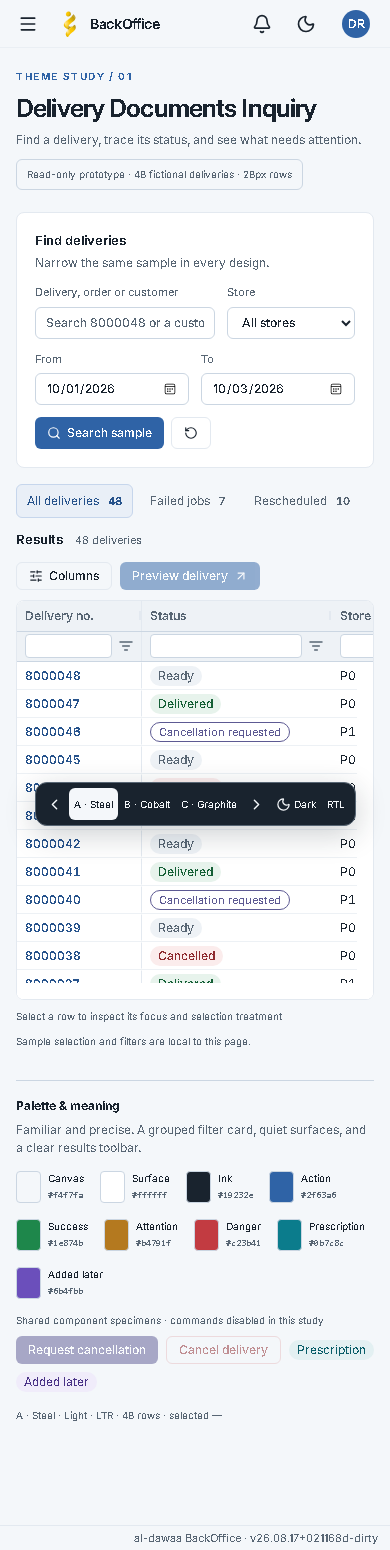
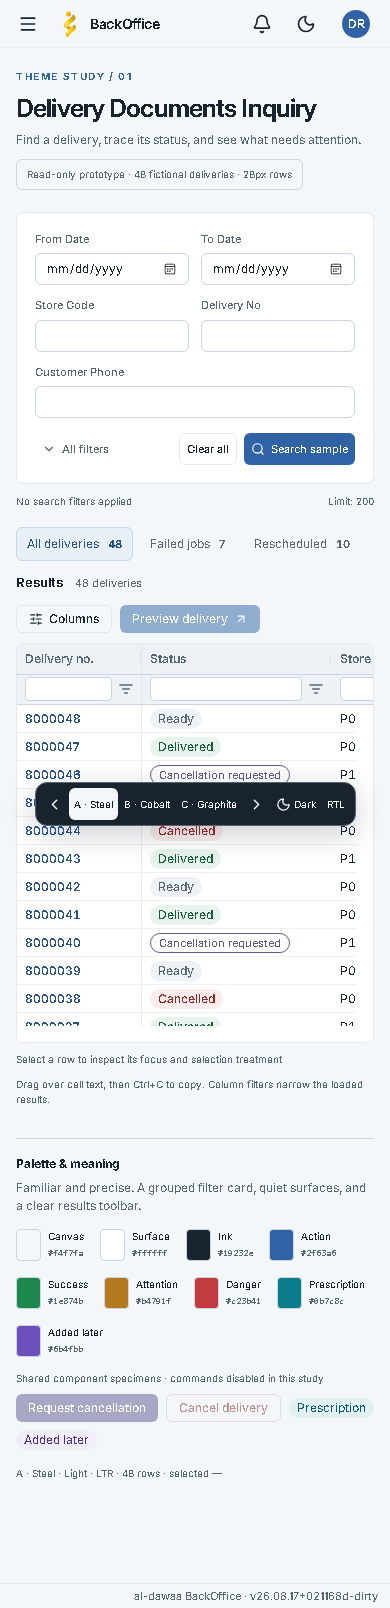
prototype: retain full inquiry filters and enable cell text copying

diff --git a/src/features/oms/deliveries/__prototype__/ThemePrototypePage.tsx b/src/features/oms/deliveries/__prototype__/ThemePrototypePage.tsx
@@ -5,7 +5,7 @@ import { useSearchParams } from 'react-router'
 import { useTranslation } from 'react-i18next'
 import { AgGridReact } from 'ag-grid-react'
 import type { ColDef, GridApi } from 'ag-grid-community'
-import { Search, RotateCcw, SlidersHorizontal, ArrowUpRight, Sun, Moon } from 'lucide-react'
+import { SlidersHorizontal, ArrowUpRight, Sun, Moon } from 'lucide-react'
 import '@/core/ag-grid-setup'
 import i18n from '@/core/i18n'
 import Button from '@/core/ui/Button'
@@ -13,12 +13,14 @@ import StatusBadge from '@/core/ui/StatusBadge'
 import PrototypeSwitcher from '@/core/ui/ThemePrototypeSwitcher'
 import { omsGridTheme } from '@/core/theme/ag-grid-theme'
 import copy from './copy.json'
+import ThemePrototypeFilters from './ThemePrototypeFilters'
+import { BLANK_CRITERIA, buildDeliveryQuery, type DeliveryFilterCriteria } from '../filter'
 import './theme-prototype.css'
 
 i18n.addResourceBundle('en', 'theme-prototype', copy, true, true)
 const keys = ['A', 'B', 'C'] as const
 type Variant = typeof keys[number]
-type Row = { deliveryNo: string; orderNo: string; customer: string; store: string; date: string; status: string; slot: string; total: number; due: number; source: string; city: string; jobs: number; note: string; rescheduled: boolean }
+type Row = { deliveryNo: string; orderNo: string; customer: string; store: string; date: string; status: string; slot: string; total: number; due: number; source: string; city: string; jobs: number; note: string; rescheduled: boolean; documentNo: string; customerPhone: string; documentType: string; deliveryDocumentType: string; deliveryType: string; documentReason: string; isExpress: boolean }
 // Invented display data; no customer data or API mutations.
 const rows: Row[] = Array.from({ length: 48 }, (_, i) => ({
   deliveryNo: String(8000048 - i), orderNo: String(1000080421 - i),
@@ -28,6 +30,10 @@ const rows: Row[] = Array.from({ length: 48 }, (_, i) => ({
   slot: ['10:00–12:00', '12:00–14:00', '16:00–18:00'][i % 3],
   total: Math.round((92.5 + i * 17.35) * 100) / 100, due: i % 4 === 0 ? 72.5 : 0,
   source: ['Call center', 'Web', 'Store'][i % 3], city: ['Riyadh', 'Dammam', 'Khobar'][i % 3],
+  documentNo: String(2000080421 - i), customerPhone: `050000${String(i + 1).padStart(4, '0')}`,
+  documentType: ['Call Center', 'Web Order', 'Store Order'][i % 3],
+  deliveryDocumentType: i % 8 === 0 ? 'Return Delivery' : 'Standard Delivery',
+  deliveryType: i % 4 === 0 ? 'PickInStore' : 'Delivery', documentReason: i % 5 === 0 ? 'TMRA' : 'STANDARD', isExpress: i % 3 === 0,
   jobs: i % 7 === 0 ? 2 : 0, rescheduled: i % 5 === 0, note: i % 5 === 0 ? 'Customer requested an afternoon slot' : '',
 }))
 const palette = ['background', 'card', 'foreground', 'primary', 'success', 'attention', 'danger', 'prescription', 'post']
@@ -39,12 +45,8 @@ export default function ThemePrototypePage() {
   const variant = keys.includes(params.get('variant') as Variant) ? params.get('variant') as Variant : 'A'
   const dark = params.get('mode') === 'dark'
   const rtl = params.get('dir') === 'rtl'
-  const [query, setQuery] = useState('')
-  const [store, setStore] = useState('')
-  const [from, setFrom] = useState('2026-10-01')
-  const [to, setTo] = useState('2026-10-03')
   const [scope, setScope] = useState('all')
-  const [applied, setApplied] = useState({ query: '', store: '', from, to })
+  const [applied, setApplied] = useState<DeliveryFilterCriteria>(BLANK_CRITERIA)
   const [selected, setSelected] = useState<Row | null>(null)
   const [api, setApi] = useState<GridApi<Row> | null>(null)
   const [chooser, setChooser] = useState(false)
@@ -77,10 +79,23 @@ export default function ThemePrototypePage() {
       root.dir = previous.dir
     }
   }, [variant, dark, rtl])
-  const data = useMemo(() => rows.filter(row => (!applied.store || row.store === applied.store)
-    && (!applied.from || row.date >= applied.from) && (!applied.to || row.date <= applied.to)
-    && `${row.deliveryNo} ${row.orderNo} ${row.customer}`.toLowerCase().includes(applied.query.toLowerCase())
-    && (scope === 'all' || (scope === 'failed' ? row.jobs > 0 : row.rescheduled))), [applied, scope])
+  const data = useMemo(() => {
+    const query = buildDeliveryQuery(applied)
+    const matches = (value: string, criterion: unknown) => !criterion || value.toLowerCase().includes(String(criterion).toLowerCase())
+    // Local fixture matching only; production matching remains server-owned.
+    return rows.filter(row => (!query.FromDate || row.date >= String(query.FromDate))
+      && (!query.ToDate || row.date <= String(query.ToDate))
+      && matches(row.store, query.StoreCode) && matches(row.deliveryNo, query.DeliveryNo)
+      && matches(row.documentNo, query.DocumentNo) && matches(row.orderNo, query.OrderNo)
+      && matches(row.customerPhone, query.CustomerPhone) && matches(row.documentReason, query.DocumentReason)
+      && (!query.DocumentType || row.documentType === query.DocumentType)
+      && (!query.DocumentSource || row.source === query.DocumentSource)
+      && (!query.DeliveryDocumentType || row.deliveryDocumentType === query.DeliveryDocumentType)
+      && (!query.DeliveryType || row.deliveryType === query.DeliveryType)
+      && (query.IsExpress === undefined || row.isExpress === query.IsExpress)
+      && (scope === 'all' || (scope === 'failed' ? row.jobs > 0 : row.rescheduled)))
+      .slice(0, Number(query.Limit))
+  }, [applied, scope])
   useEffect(() => { api?.deselectAll(); setSelected(null) }, [data, api])
   const columns = useMemo<ColDef<Row>[]>(() => [
     { field: 'deliveryNo', width: 125, pinned: rtl ? 'right' : 'left', lockPinned: true, cellClass: 'prototype-identity' },
@@ -94,28 +109,19 @@ export default function ThemePrototypePage() {
     { field: 'jobs', width: 115, cellRenderer: ({ value }: { value: number }) => value ? <StatusBadge sev="bad">{value}</StatusBadge> : '—' },
     { field: 'source', width: 130 }, { field: 'city', width: 130 }, { field: 'note', width: 310 },
   ].map(col => ({ ...col, headerName: t(col.field!), hide: hidden.includes(col.field!) })) as ColDef<Row>[], [t, rtl, hidden])
-  const reset = () => {
-    setQuery(''); setStore(''); setFrom('2026-10-01'); setTo('2026-10-03'); setScope('all')
-    setApplied({ query: '', store: '', from: '2026-10-01', to: '2026-10-03' }); api?.setFilterModel(null)
-  }
-  const filters = <form className="prototype-filters" onSubmit={event => { event.preventDefault(); setApplied({ query, store, from, to }); setSelected(null) }}>
-    <div className="prototype-filter-intro"><h2>{t('filterTitle')}</h2><p>{t('filterHint')}</p></div>
-    <label className="prototype-query">{t('lookup')}<input value={query} onChange={e => setQuery(e.target.value)} placeholder={t('placeholder')} /></label>
-    <label>{t('store')}<select value={store} onChange={e => setStore(e.target.value)}><option value="">{t('allStores')}</option>{['P019', 'P042', 'P107'].map(s => <option key={s}>{s}</option>)}</select></label>
-    <label>{t('from')}<input type="date" value={from} onChange={e => setFrom(e.target.value)} /></label>
-    <label>{t('to')}<input type="date" value={to} min={from} onChange={e => setTo(e.target.value)} /></label>
-    <div className="prototype-filter-actions"><Button type="submit"><Search size={14} />{t('search')}</Button><Button variant="outlined" onClick={reset} aria-label={t('reset')}><RotateCcw size={14} /></Button></div>
-  </form>
+  const reset = () => { setApplied(BLANK_CRITERIA); setScope('all'); api?.setFilterModel(null) }
+  const filters = <ThemePrototypeFilters applied={applied} onApply={setApplied} onReset={reset} />
   const scopes = <div className="prototype-scopes">{['all', 'failed', 'rescheduled'].map(key => <button key={key} aria-pressed={scope === key} onClick={() => { setScope(key); setSelected(null) }}><span>{t(key)}</span><strong>{rows.filter(r => key === 'all' || (key === 'failed' ? r.jobs > 0 : r.rescheduled)).length}</strong></button>)}</div>
   const grid = <section className="prototype-results">
     <div className="prototype-results-toolbar"><h2>{t('results')} <span>{t('count', { count: data.length })}</span></h2><div className="flex items-center gap-2"><Button variant="outlined" onClick={() => setChooser(!chooser)} aria-expanded={chooser}><SlidersHorizontal size={14} />{t('columns')}</Button><Button disabled={!selected} onClick={() => setPreview(true)}>{t('open')}<ArrowUpRight size={14} /></Button></div></div>
     {chooser && <div className="prototype-column-chooser">{columns.filter(c => c.field !== 'deliveryNo').map(col => <label key={col.field}><input type="checkbox" checked={!hidden.includes(col.field!)} onChange={e => setHidden(old => e.target.checked ? old.filter(key => key !== col.field) : [...old, col.field!])} />{col.headerName}</label>)}</div>}
     <div className="prototype-grid"><AgGridReact<Row> key={String(rtl)} theme={gridTheme} enableRtl={rtl} rowData={data} columnDefs={columns}
+      enableCellTextSelection ensureDomOrder
       defaultColDef={{ sortable: true, resizable: true, filter: true, floatingFilter: true }} rowHeight={28} headerHeight={30} floatingFiltersHeight={30}
       rowSelection={{ mode: 'singleRow', checkboxes: false, enableClickSelection: true }} getRowId={p => p.data.deliveryNo}
       onGridReady={e => setApi(e.api)} onSelectionChanged={e => setSelected(e.api.getSelectedRows()[0] ?? null)}
       overlayNoRowsTemplate={`<span>${t('empty')}</span>`} /></div>
-    <div className="prototype-grid-footer"><span>{selected ? t('selected', { id: selected.deliveryNo }) : t('none')}</span><span>{t('scope')}</span></div>
+    <div className="prototype-grid-footer"><span>{selected ? t('selected', { id: selected.deliveryNo }) : t('none')}</span><span>{t('copyHint')} {t('scope')}</span></div>
   </section>
   return <div className={`theme-prototype prototype-${variant}`}>
     <div className="prototype-heading"><div><div className="prototype-eyebrow">{t('review')}</div><h1>{t('title')}</h1><p>{t('subtitle')}</p></div><span className="prototype-fixture">{t('fixture')}</span></div>

diff --git a/src/features/oms/deliveries/__prototype__/ThemePrototypeFilters.tsx b/src/features/oms/deliveries/__prototype__/ThemePrototypeFilters.tsx
@@ -1,0 +1,96 @@
+// Throwaway filter composition: all 14 production criteria, unchanged request meanings.
+import { useState } from 'react'
+import { useTranslation } from 'react-i18next'
+import { ChevronDown, ChevronUp, Search, X } from 'lucide-react'
+import Button from '@/core/ui/Button'
+import { fromIsoDate, toIsoDate } from '@/core/util/date-format'
+import { BLANK_CRITERIA, buildDeliveryQuery, DEFAULT_LIMIT, type DeliveryFilterCriteria } from '../filter'
+
+type Field = keyof DeliveryFilterCriteria
+// Fixture lookup descriptions, not a replacement for production lookup endpoints.
+const choices: Partial<Record<Field, string[]>> = {
+  documentType: ['Call Center', 'Web Order', 'Store Order'],
+  documentSource: ['Call center', 'Web', 'Store'],
+  deliveryDocumentType: ['Standard Delivery', 'Return Delivery'],
+  deliveryType: ['Delivery', 'PickInStore'],
+}
+const common: Field[] = ['fromDate', 'toDate', 'storeCode', 'deliveryNo', 'customerPhone']
+const groups: { name: string; fields: Field[] }[] = [
+  { name: 'identityGroup', fields: ['documentNo', 'orderNo'] },
+  { name: 'classificationGroup', fields: ['documentType', 'documentSource', 'deliveryDocumentType', 'documentReason'] },
+  { name: 'fulfilmentGroup', fields: ['deliveryType', 'isExpress'] },
+  { name: 'resultsGroup', fields: ['limit'] },
+]
+
+export default function ThemePrototypeFilters({ applied, onApply, onReset }: {
+  applied: DeliveryFilterCriteria; onApply: (criteria: DeliveryFilterCriteria) => void; onReset: () => void
+}) {
+  const { t } = useTranslation('theme-prototype')
+  const [draft, setDraft] = useState(applied)
+  const [expanded, setExpanded] = useState(false)
+  const label = (key: Field) => t(`deliveries:filters.${key === 'isExpress' ? 'dawaaNow' : key}`)
+  const set = (key: Field, value: DeliveryFilterCriteria[Field]) => setDraft(old => ({ ...old, [key]: value }))
+  const dirty = JSON.stringify(draft) !== JSON.stringify(applied)
+  const active = (Object.keys(applied) as Field[]).filter(key => key === 'fromDate'
+    ? applied.fromDate && applied.toDate
+    : key !== 'toDate' && key !== 'limit' && applied[key] !== null && applied[key] !== '')
+  const extraCount = active.filter(key => !common.includes(key)).length
+  const valueText = (key: Field) => key === 'fromDate'
+    ? `${toIsoDate(applied.fromDate!)} — ${toIsoDate(applied.toDate!)}`
+    : key === 'isExpress' ? t(applied.isExpress ? 'common:yes' : 'common:no') : String(applied[key])
+  const remove = (key: Field) => {
+    const patch = key === 'fromDate' ? { fromDate: null, toDate: null } : { [key]: null }
+    setDraft(old => ({ ...old, ...patch }))
+    onApply({ ...applied, ...patch })
+  }
+  const field = (key: Field) => <div key={key} className="prototype-filter-field">
+    <label htmlFor={`prototype-${key}`}>{label(key)}</label>
+    {key === 'fromDate' || key === 'toDate'
+      ? <input id={`prototype-${key}`} type="date" value={draft[key] ? toIsoDate(draft[key]) : ''} onChange={e => set(key, fromIsoDate(e.target.value))} />
+      : key === 'isExpress'
+        ? <select id={`prototype-${key}`} value={draft.isExpress === null ? '' : String(draft.isExpress)} onChange={e => set(key, e.target.value === '' ? null : e.target.value === 'true')}>
+          <option value="">{t('deliveries:filters.any')}</option><option value="true">{t('common:yes')}</option><option value="false">{t('common:no')}</option>
+        </select>
+        : choices[key]
+          ? <select id={`prototype-${key}`} value={String(draft[key] ?? '')} onChange={e => set(key, e.target.value || null)}>
+            <option value="">{t('deliveries:filters.any')}</option>{choices[key]!.map(value => <option key={value}>{value}</option>)}
+          </select>
+          : <input id={`prototype-${key}`} type={key === 'limit' ? 'number' : key === 'customerPhone' ? 'tel' : 'text'}
+            min={key === 'limit' ? 1 : undefined} max={key === 'limit' ? 20000 : undefined}
+            autoComplete="off" value={String(draft[key] ?? '')}
+            onChange={e => set(key, e.target.value === '' ? null : key === 'limit' ? Number(e.target.value) : e.target.value)} />}
+  </div>
+  return <div className="prototype-filter-system">
+    <form className="prototype-filters" aria-label={t('deliveries:filters.ariaLabel')} onSubmit={e => {
+      e.preventDefault()
+      // Keep production normalization (paired dates, trimmed text, default limit).
+      const query = buildDeliveryQuery(draft)
+      onApply({ ...draft, limit: Number(query.Limit) })
+    }}>
+      <div className="prototype-common-filters">{common.map(field)}</div>
+      <div id="prototype-all-filters" className="prototype-expanded-filters" hidden={!expanded}>
+        {groups.map(group => <fieldset key={group.name} className={`prototype-filter-group ${group.name}`}>
+          <legend>{t(group.name)}</legend><div>{group.fields.map(field)}</div>
+        </fieldset>)}
+      </div>
+      <div className="prototype-filter-footer">
+        <Button variant="text" aria-expanded={expanded} aria-controls="prototype-all-filters" onClick={() => setExpanded(!expanded)}>
+          {expanded ? <ChevronUp size={14} /> : <ChevronDown size={14} />}{t(expanded ? 'fewerFilters' : 'allFilters')}
+          {extraCount > 0 && <span className="prototype-filter-count">{t('appliedExtra', { count: extraCount })}</span>}
+        </Button>
+        <span className="prototype-draft-state" role="status">{dirty ? t('unapplied') : t('filterCount')}</span>
+        <div className="prototype-filter-actions">
+          <Button variant="outlined" onClick={() => { setDraft(BLANK_CRITERIA); onReset() }}>{t('clearAll')}</Button>
+          <Button type="submit"><Search size={14} />{t('search')}</Button>
+        </div>
+      </div>
+      {(draft.fromDate === null) !== (draft.toDate === null) && <p className="prototype-date-hint">{t('pairedDates')}</p>}
+    </form>
+    <div className="prototype-active-filters" aria-label={t('activeFilters')}>
+      {active.length > 0 ? <><span>{t('activeFilters')}</span>{active.map(key => <button key={key} onClick={() => remove(key)} aria-label={t('removeFilter', { label: label(key) })}>
+        <span>{label(key)}: <bdi>{valueText(key)}</bdi></span><X size={12} />
+      </button>)}</> : <span>{t('noFilters')}</span>}
+      <span className="prototype-limit-summary">{t('appliedLimit', { count: applied.limit || DEFAULT_LIMIT })}</span>
+    </div>
+  </div>
+}

diff --git a/src/features/oms/deliveries/__prototype__/theme-prototype.css b/src/features/oms/deliveries/__prototype__/theme-prototype.css
@@ -71,3 +71,54 @@
 @media (max-width: 1100px) { .prototype-heading { align-items: start; flex-direction: column; gap: 10px; } .prototype-grid-footer { flex-wrap: wrap; } }
 @media (max-width: 850px) { .prototype-workspace { grid-template-columns: minmax(0, 1fr); } .prototype-workspace > aside { border: 0; padding: 0; } .prototype-B .prototype-filters label { width: auto; } .prototype-aside-note { display: none; } .prototype-results-toolbar { flex-wrap: wrap; } .prototype-C .prototype-scopes { gap: 15px; } .prototype-C .prototype-scopes strong { font-size: 20px; } }
 @media (max-width: 520px) { .prototype-fixture { white-space: normal; } .prototype-switcher { gap: 1px; padding: 5px; } .prototype-switcher button { font-size: 10px; padding-inline: 5px; gap: 3px; } .prototype-components { gap: 8px; } .prototype-filters label { flex: 1; } }
+
+/* Full-filter review: preserve every criterion, spend space on grouping and hierarchy. */
+.prototype-filter-system { min-width: 0; }
+.prototype-filter-field { display: flex; flex-direction: column; gap: 6px; min-width: 0; }
+.prototype-filters { display: block; }
+.prototype-common-filters { display: grid; grid-template-columns: repeat(5, minmax(0, 1fr)); gap: 12px; }
+.prototype-filters input, .prototype-filters select { width: 100%; min-width: 0; }
+.prototype-expanded-filters { display: grid; grid-template-columns: 1.1fr 2fr 1.1fr .7fr; gap: 20px; margin-block-start: 20px; padding-block-start: 17px; border-block-start: 1px solid var(--border); }
+.prototype-expanded-filters[hidden] { display: none; }
+.prototype-filter-group { min-width: 0; }
+.prototype-filter-group legend { font-size: 10px; font-weight: 650; letter-spacing: .04em; margin-block-end: 12px; color: var(--foreground); }
+.prototype-filter-group > div { display: grid; gap: 12px; }
+.prototype-filter-group.classificationGroup > div { grid-template-columns: repeat(2, minmax(0, 1fr)); }
+.prototype-filter-footer { display: flex; align-items: center; gap: 12px; margin-block-start: 15px; }
+.prototype-filter-footer > button { padding-inline-start: 0; }
+.prototype-filter-actions { margin-inline-start: auto; flex-shrink: 0; }
+.prototype-filter-count { background: var(--primary-050); color: var(--primary-800); padding: 2px 5px; border-radius: 4px; font-size: 10px; }
+.prototype-draft-state, .prototype-date-hint { font-size: 10px; color: var(--muted-foreground); }
+.prototype-date-hint { margin-block-start: 10px; }
+.prototype-active-filters { display: flex; align-items: center; flex-wrap: wrap; gap: 7px; padding-block: 10px 2px; font-size: 10px; color: var(--muted-foreground); }
+.prototype-active-filters button { display: inline-flex; align-items: center; gap: 7px; border: 1px solid var(--primary-border); background: var(--primary-050); color: var(--primary-800); padding: 4px 7px; max-width: 100%; }
+.prototype-active-filters button span { overflow-wrap: anywhere; }
+.prototype-limit-summary { margin-inline-start: auto; white-space: nowrap; }
+.prototype-workspace { grid-template-columns: 260px minmax(0, 1fr); }
+.prototype-B .prototype-common-filters, .prototype-B .prototype-expanded-filters, .prototype-B .prototype-filter-group.classificationGroup > div { grid-template-columns: minmax(0, 1fr); }
+.prototype-B .prototype-filters { max-block-size: 660px; overflow-y: auto; padding-inline-end: 6px; }
+.prototype-B .prototype-filter-footer { flex-wrap: wrap; position: sticky; inset-block-end: 0; background: var(--background); padding-block: 8px; }
+.prototype-B .prototype-draft-state { width: 100%; }
+.prototype-B .prototype-filter-actions { margin-inline-start: 0; }
+.prototype-C .prototype-filters { padding-block-end: 8px; }
+.prototype-C .prototype-active-filters { margin-block-end: 14px; }
+@media (max-width: 1100px) {
+  .prototype-common-filters { grid-template-columns: repeat(3, minmax(0, 1fr)); }
+  .prototype-expanded-filters { grid-template-columns: repeat(2, minmax(0, 1fr)); }
+}
+@media (max-width: 850px) {
+  .prototype-workspace { grid-template-columns: minmax(0, 1fr); }
+  .prototype-B .prototype-common-filters, .prototype-B .prototype-expanded-filters { grid-template-columns: repeat(2, minmax(0, 1fr)); }
+  .prototype-B .prototype-filters { max-block-size: none; overflow: visible; padding: 0; }
+  .prototype-B .prototype-filter-footer { position: static; }
+  .prototype-B .prototype-filter-actions { margin-inline-start: auto; }
+  .prototype-filter-footer { flex-wrap: wrap; }
+  .prototype-draft-state { display: none; }
+}
+@media (max-width: 520px) {
+  .prototype-common-filters, .prototype-expanded-filters { grid-template-columns: repeat(2, minmax(0, 1fr)); }
+  .prototype-filter-group.classificationGroup > div { grid-template-columns: minmax(0, 1fr); }
+  .prototype-filter-footer { gap: 8px; }
+  .prototype-filter-footer button { padding-inline: 7px; font-size: 11px; }
+  .prototype-common-filters .prototype-filter-field:last-child { grid-column: 1 / -1; }
+}

diff --git a/.issues/assets/355-theme-review/README.md b/.issues/assets/355-theme-review/README.md
@@ -30,7 +30,21 @@ The dedicated Vite configuration intercepts every `/api/` request, including wri
 
 Choose a palette and a composition independently, or choose one direction whole. The agent's recommendation is **C's compact composition with A's steel palette**: it preserves the familiar palette and gives the data more vertical space. This is a recommendation, not the owner's answer.
 
-B reserves 210px for filters, making repeated searches easier to reach but reducing horizontal grid space. At a narrow viewport its filters move above the grid. C removes the filter card and lets status colours stand out against quieter neutral surfaces. A changes the least from the current application.
+B reserves 260px for filters, making repeated searches easier to reach but reducing horizontal grid space. At a narrow viewport its filters move above the grid. C removes the filter card and lets status colours stand out against quieter neutral surfaces. A changes the least from the current application.
+
+## Full-filter and text-copy refinement
+
+Following owner feedback, the prototype now includes all 14 production filter fields. The current proposal keeps From Date, To Date, Store Code, Delivery No and Customer Phone visible; **All filters** expands the remaining nine, grouped by document identity, classification, fulfilment and results. The owner has not yet confirmed whether this panel should start expanded.
+
+Search applies the draft criteria as a batch. Applied criteria remain visible as removable chips even when the panel is collapsed. The result limit is always stated. Column filters act on the loaded sample, separately from the search criteria. All matching happens against fictional rows, with the real query builder used to retain request-shaping semantics. The former combined customer/number search has been replaced by the distinct production fields.
+
+- All fields expanded: [Steel](A-all-filters.png), [Cobalt](B-all-filters.png), [Graphite](C-all-filters.png).
+- [Applied-filter chips with the panel collapsed](C-active-filter-chips.png).
+- All fields at 390px: [Steel](A-mobile-all-filters.png), [Cobalt](B-mobile-all-filters.png), [Graphite](C-mobile-all-filters.png).
+
+Native cell-text selection is enabled using `enableCellTextSelection` and `ensureDomOrder`. Select text with a drag or double-click a word, then press Ctrl+C. Row selection remains available; copying selected text does not require an Enterprise licence. This is not a proposal for Excel-style range selection.
+
+Sources checked on 2026-10-02: [AG Grid cell text selection](https://www.ag-grid.com/react-data-grid/cell-text-selection/) documents both settings and the resulting selected-text clipboard behaviour; the installed Community 36.0.1 types contain both. [IBM Carbon filtering](https://www.carbondesignsystem.com/building-blocks/core/patterns/filtering) supports batch application for multiple criteria and visible indicators/reset for hidden active filters. The specific five-field ordering and expandable grouping are this prototype's proposal, not a claim that those sources prescribe this screen.
 
 The columns and combined status are illustrative fixtures, not a proposed replacement for the production list's 41-column contract or its multiple domain status fields. The fuller shared-state and component review belongs to the dependent visual ticket. This study does not establish loading/error/empty-state styling across the app or settle rich-row density.
 
@@ -38,7 +52,7 @@ The columns and combined status are illustrative fixtures, not a proposed replac
 
 - `npm run build` (includes TypeScript): passed; the existing large-chunk warning remains.
 - `npm run lint`: passed, including the existing 129-pair contrast gate.
-- `node tools/theme-prototype-drive.mjs`: 38 browser checks passed; [results](verification.json).
+- `node tools/theme-prototype-drive.mjs`: see the latest [browser results](verification.json), including native selection/Ctrl+C, all 14 controls, combined filtering, chip removal, and expanded layouts at 390px.
 - Browser checks cover all six desktop variants, 28px rows, horizontal overflow within the grid, row selection, four key text/action contrast pairs per view, sample filters, column visibility, keyboard ownership, detail preview, switcher/reload, RTL pinning, shell mode synchronization, no persisted theme setting, and all three layouts at 390px.
 - Captures were visually inspected. No browser errors. React Router's hydration-fallback warning and the shell's duplicate-query warning are recorded in the results; neither is introduced as a design decision.
 - The driver follows the repo's existing Playwright arrangement in `C:/Playground/frontend` and uses installed Edge. It is a manual review tool, not a new test-suite dependency.

diff --git a/.issues/355-choose-the-app-theme-through-three-visual-directions.md b/.issues/355-choose-the-app-theme-through-three-visual-directions.md
@@ -36,3 +36,17 @@ Claimed for this session. Built the three visual directions on the existing inqu
 - Agent recommendation, awaiting the owner's reaction: Graphite's compact composition with Steel's palette.
 
 **No resolution yet.** The owner has been asked which direction or combination to retain. This ticket remains claimed, and its dependent tickets remain blocked. No production design decision or map resolution is implied by this prototype.
+
+### 2026-10-02 — Owner feedback: copying and the complete filter set
+
+The owner dislikes being unable to select/copy cell text and requires every production filter to remain available. The initial simplified filter set did not represent the real inquiry well enough for a decision.
+
+Prototype refined on the same branch:
+
+- Enabled AG Grid Community native cell text selection and DOM ordering. Browser verification includes selecting a delivery number and copying it with Ctrl+C. This is ordinary selected-text copying, not an Enterprise cell-range clipboard feature.
+- Restored all 14 production criteria, retaining `DeliveryFilterCriteria` and `buildDeliveryQuery` semantics, including paired dates, description-valued selects, default limit, and tri-state Dawaa Now. Fixture matching is local and illustrative, not a new server matching contract.
+- Proposed five first-row fields (From Date, To Date, Store Code, Delivery No, Customer Phone), plus a grouped expandable section for Document No, Order No, Document Type, Document Source, Delivery Document Type, Reason, Delivery Type, Dawaa Now, and Limit.
+- Applied criteria remain visible as removable chips; draft changes are identified until Search; Clear all clears search criteria and grid column filters. The result limit remains visible when collapsed.
+- Asked whether all 14 must be visible by default or available through expansion. No answer or theme selection inferred. Grouping and default expansion remain proposals for review.
+
+[Updated captures and guidance sources](assets/355-theme-review/README.md). This is further work on the same visual decision, not resolution of its dependent state-consistency ticket.
